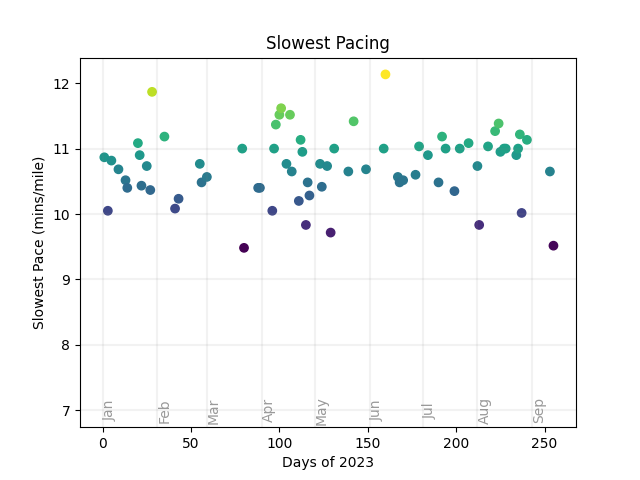
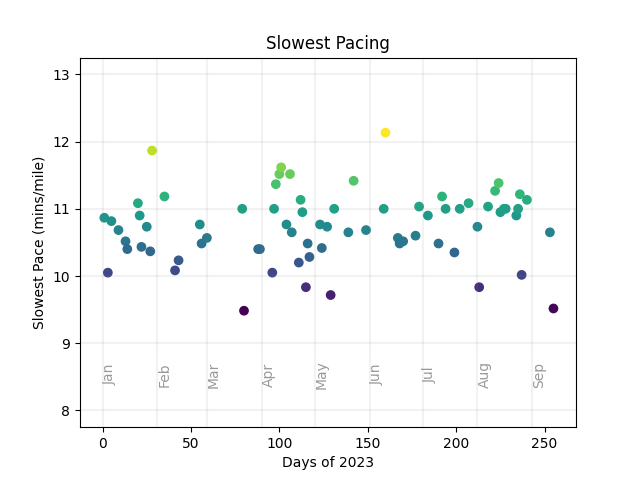
Update for 09/12/2023

diff --git a/progress.py b/progress.py
@@ -185,8 +185,8 @@ if plot_difference:
 
 # Plot Average Pace
 
-def pacing_lines():
-    for i in range(7, 12):
+def pacing_lines(min=7, max=12):
+    for i in range(int(np.floor(min)), int(np.ceil(max))):
         plt.axhline(i,  color='gray', alpha=0.1)
 
 plot_pacing = True
@@ -194,11 +194,14 @@ plot_pacing = True
 if plot_pacing:
 
     for label in ['average', 'fastest', 'slowest']:
-        pacing_lines()
-        plot_months(ndays, y=7)
+        label_pacing = df[label+'_mins']
+        extent = 0.1
+        pacing_lines(min = (1-extent)*np.min(label_pacing), 
+                     max = (1+extent)*np.max(label_pacing))
+        plot_months(ndays, y=0.9*np.min(label_pacing))
 
         # continuous colors
-        plt.scatter(df['day'], df[label+'_mins'], c=df[label+'_mins'])
+        plt.scatter(df['day'], label_pacing, c=df[label+'_mins'])
         # plt.ylim(bottom=6.0)
         plt.xlabel('Days of 2023')
         plt.ylabel(label.capitalize()+' Pace (mins/mile)')
@@ -217,3 +220,23 @@ if plot_pacing:
     plt.title("Total Pacing")
     plt.savefig(images_path+"total-pacing")
     plt.close()
+
+
+plot_distribution = True
+
+# plot a histogram of all mile times
+
+all_mile_times = []
+
+for t in df['times']:
+    all_mile_times += t
+
+all_mile_times = np.array(all_mile_times,dtype=float)
+all_mile_times /= 60.0
+
+plt.hist(all_mile_times,bins=30)
+plt.title("Distribution of Paces")
+plt.xlabel("Pace (minutes)")
+plt.ylabel("Frequency")
+plt.savefig(images_path+'pacing-distribution')
+plt.close()

diff --git a/README.md b/README.md
@@ -11,3 +11,5 @@ My goal is to run 365 miles in 2023 (an average of one per day). This is a fun w
 ![Fastest Pace](plots/fastest-pacing.png)
 
 ![Slowest Pace](plots/slowest-pacing.png)
+
+![Distribution of Paces](plots/pacing-distribution.png)
